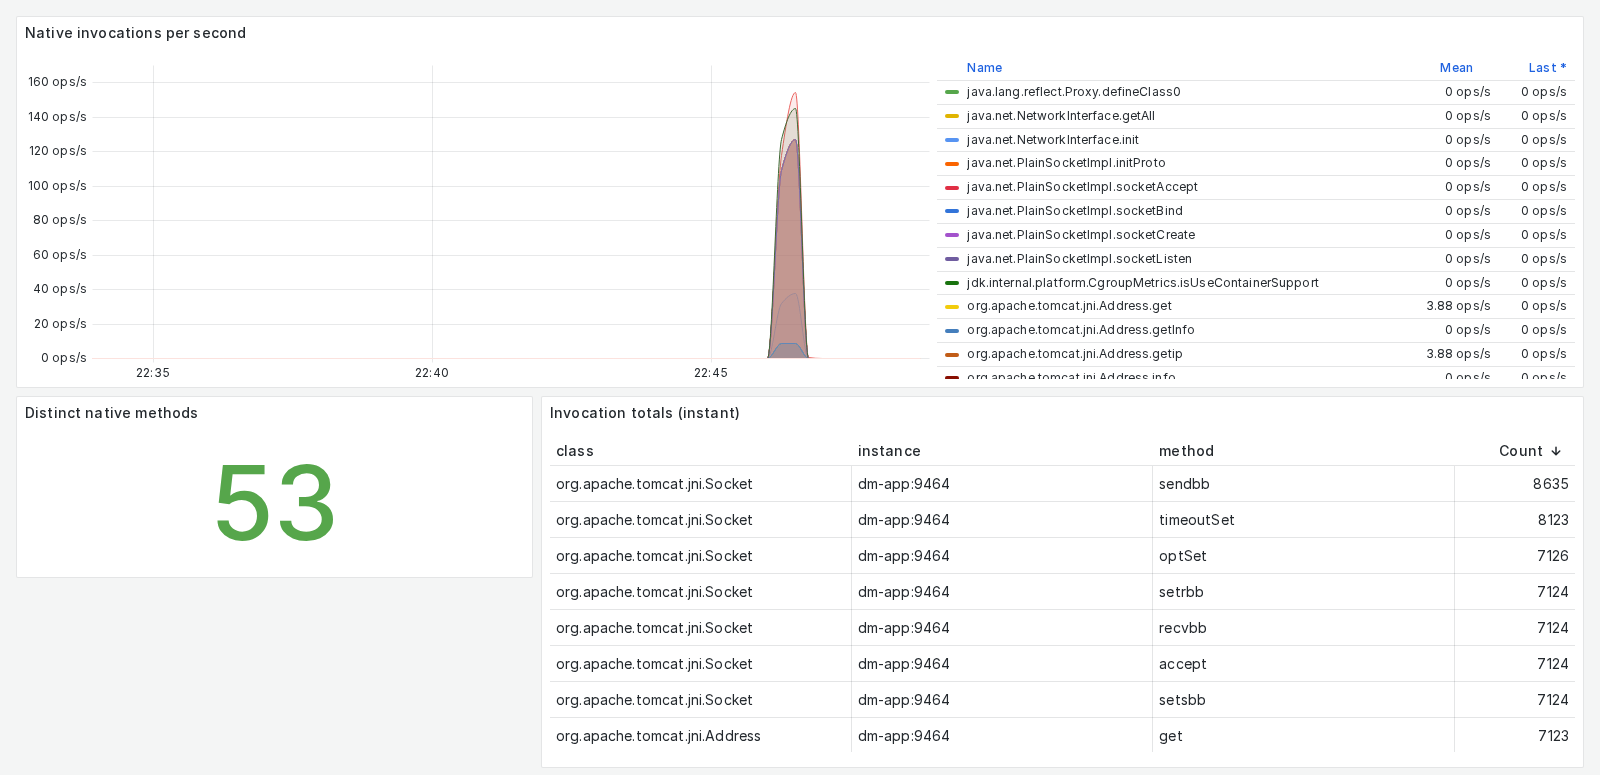
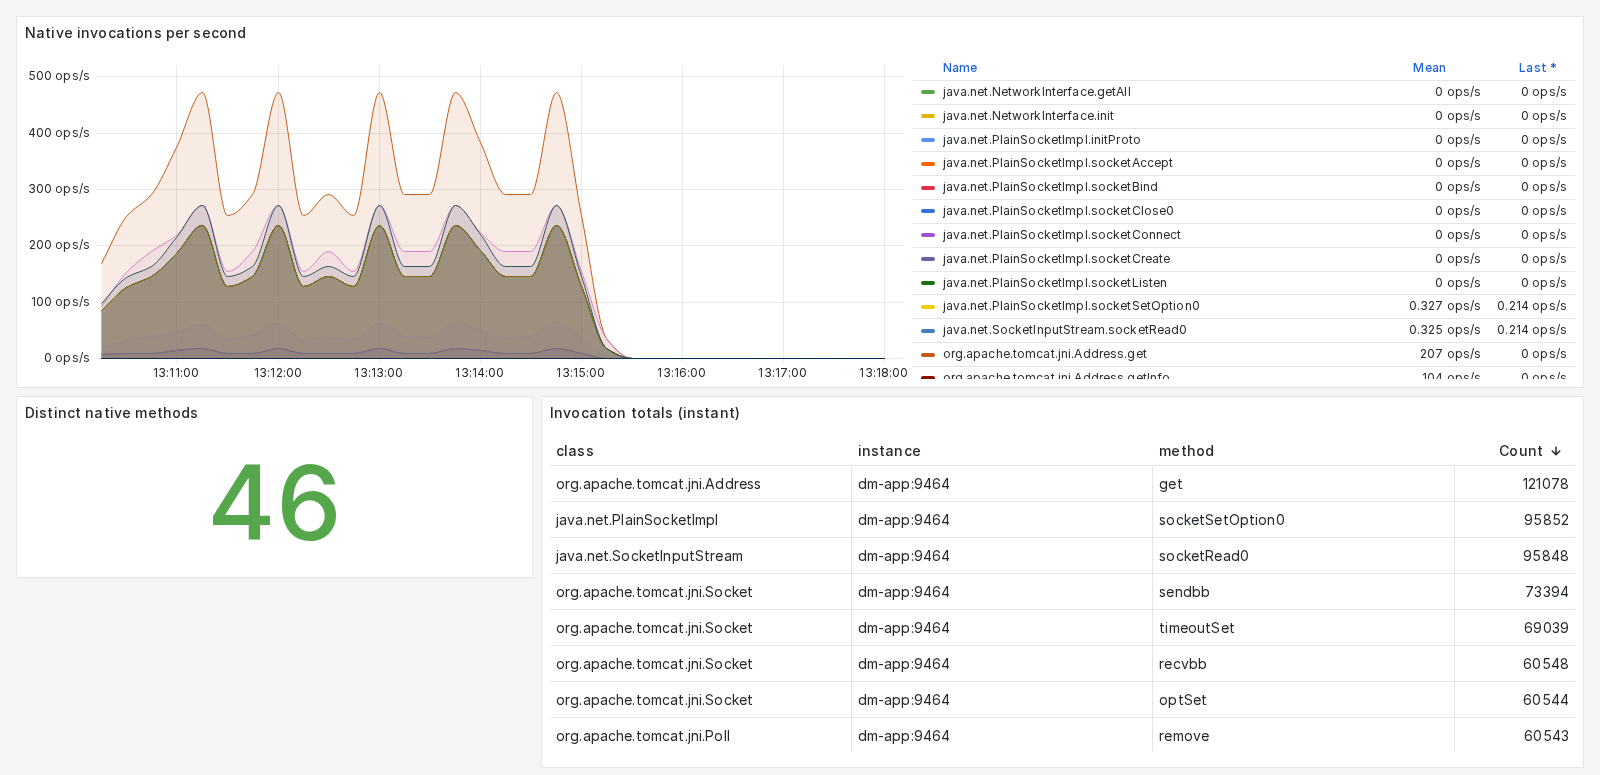
README: refresh dashboard screenshots, add alert screenshots
Native-methods and seccomp dashboards re-captured from a live Tomcat 7 / JDK 8
run on 2026-11-23. New: Prometheus alerts page and Alertmanager with
UnexpectedSyscallObserved firing for fchdir.

diff --git a/README.md b/README.md
@@ -386,6 +386,14 @@ looks exactly like a healthy one, so those cases alert too.
   nowhere else. Add a Slack, webhook or email block in
   [`alertmanager.yml`](observability/alertmanager/alertmanager.yml) to send them.
 
+![Prometheus alerts page: the ten rules, with UnexpectedSyscallObserved firing for the Tomcat run](docs/images/prometheus-alerts.png)
+
+![Alertmanager: the same alert, grouped by container, naming the syscall fchdir](docs/images/alertmanager.png)
+
+In the run above, Tomcat made one syscall that is not on its allowlist (`fchdir`, at JVM
+startup), so `UnexpectedSyscallObserved` fires and Alertmanager shows it with the container
+and the syscall name.
+
 ```bash
 # run the rule tests locally
 docker run --rm -v "$PWD/observability:/o:ro" --entrypoint promtool prom/prometheus:v2.52.0 \
